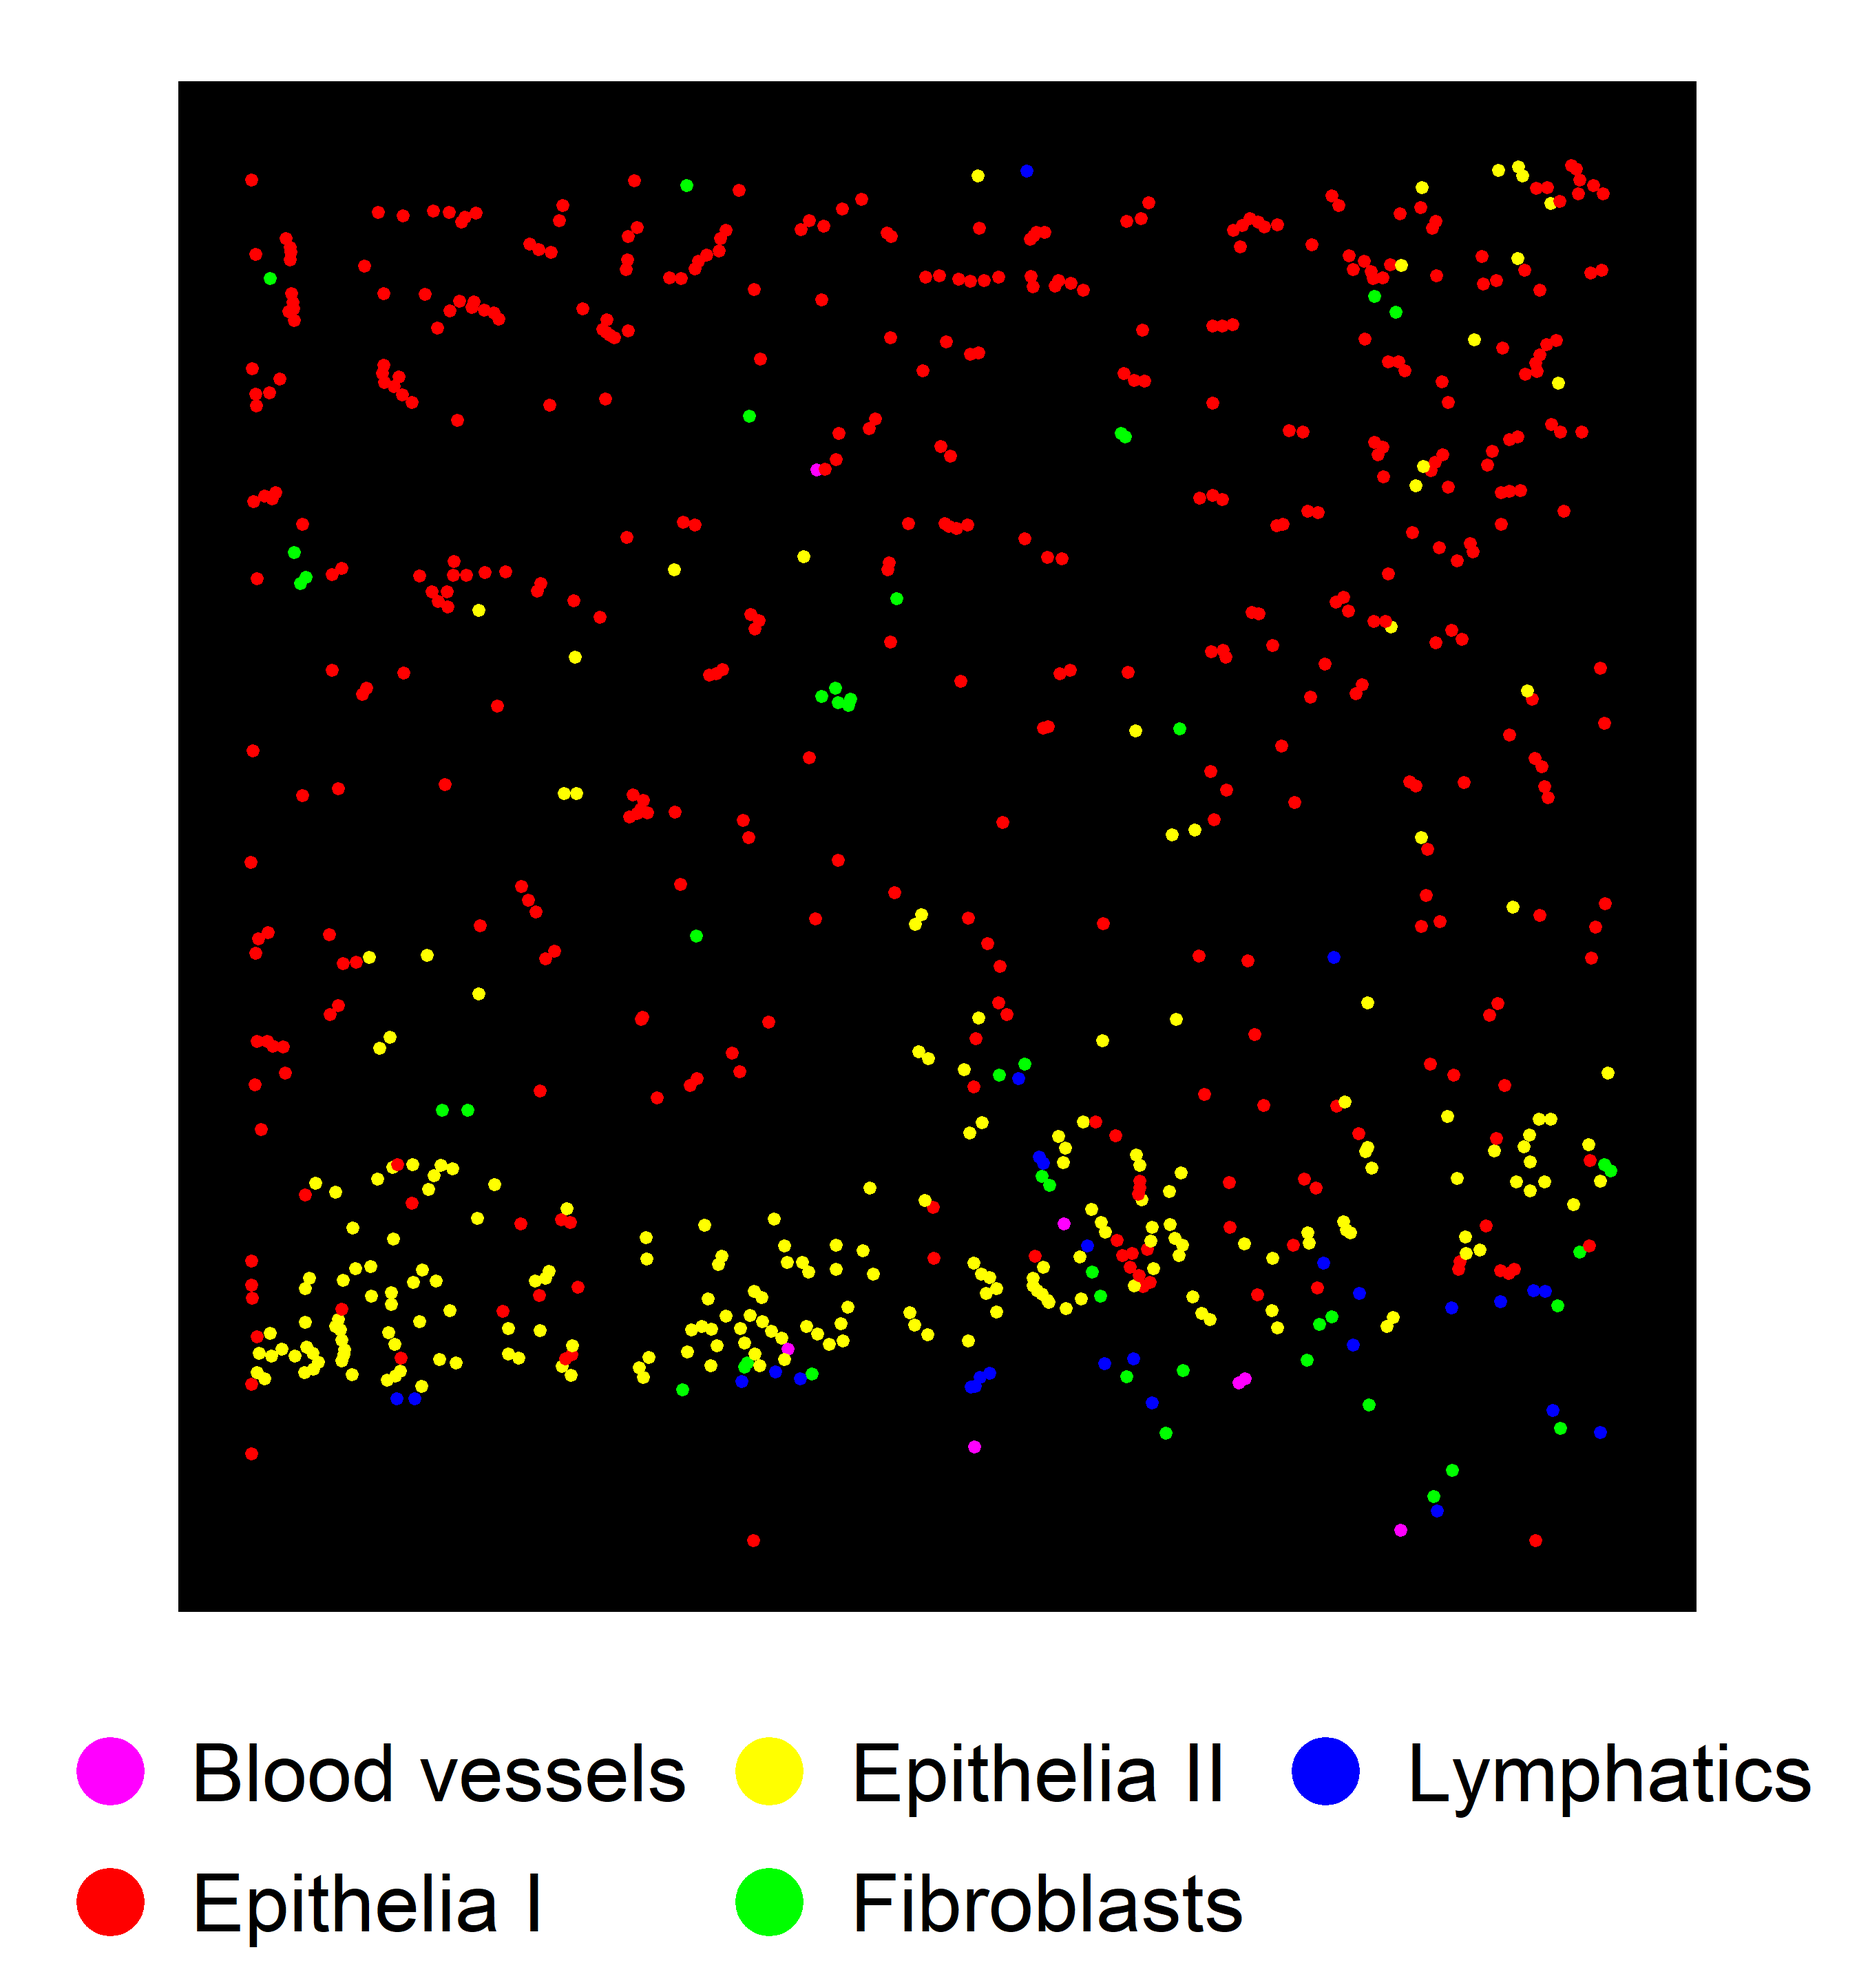
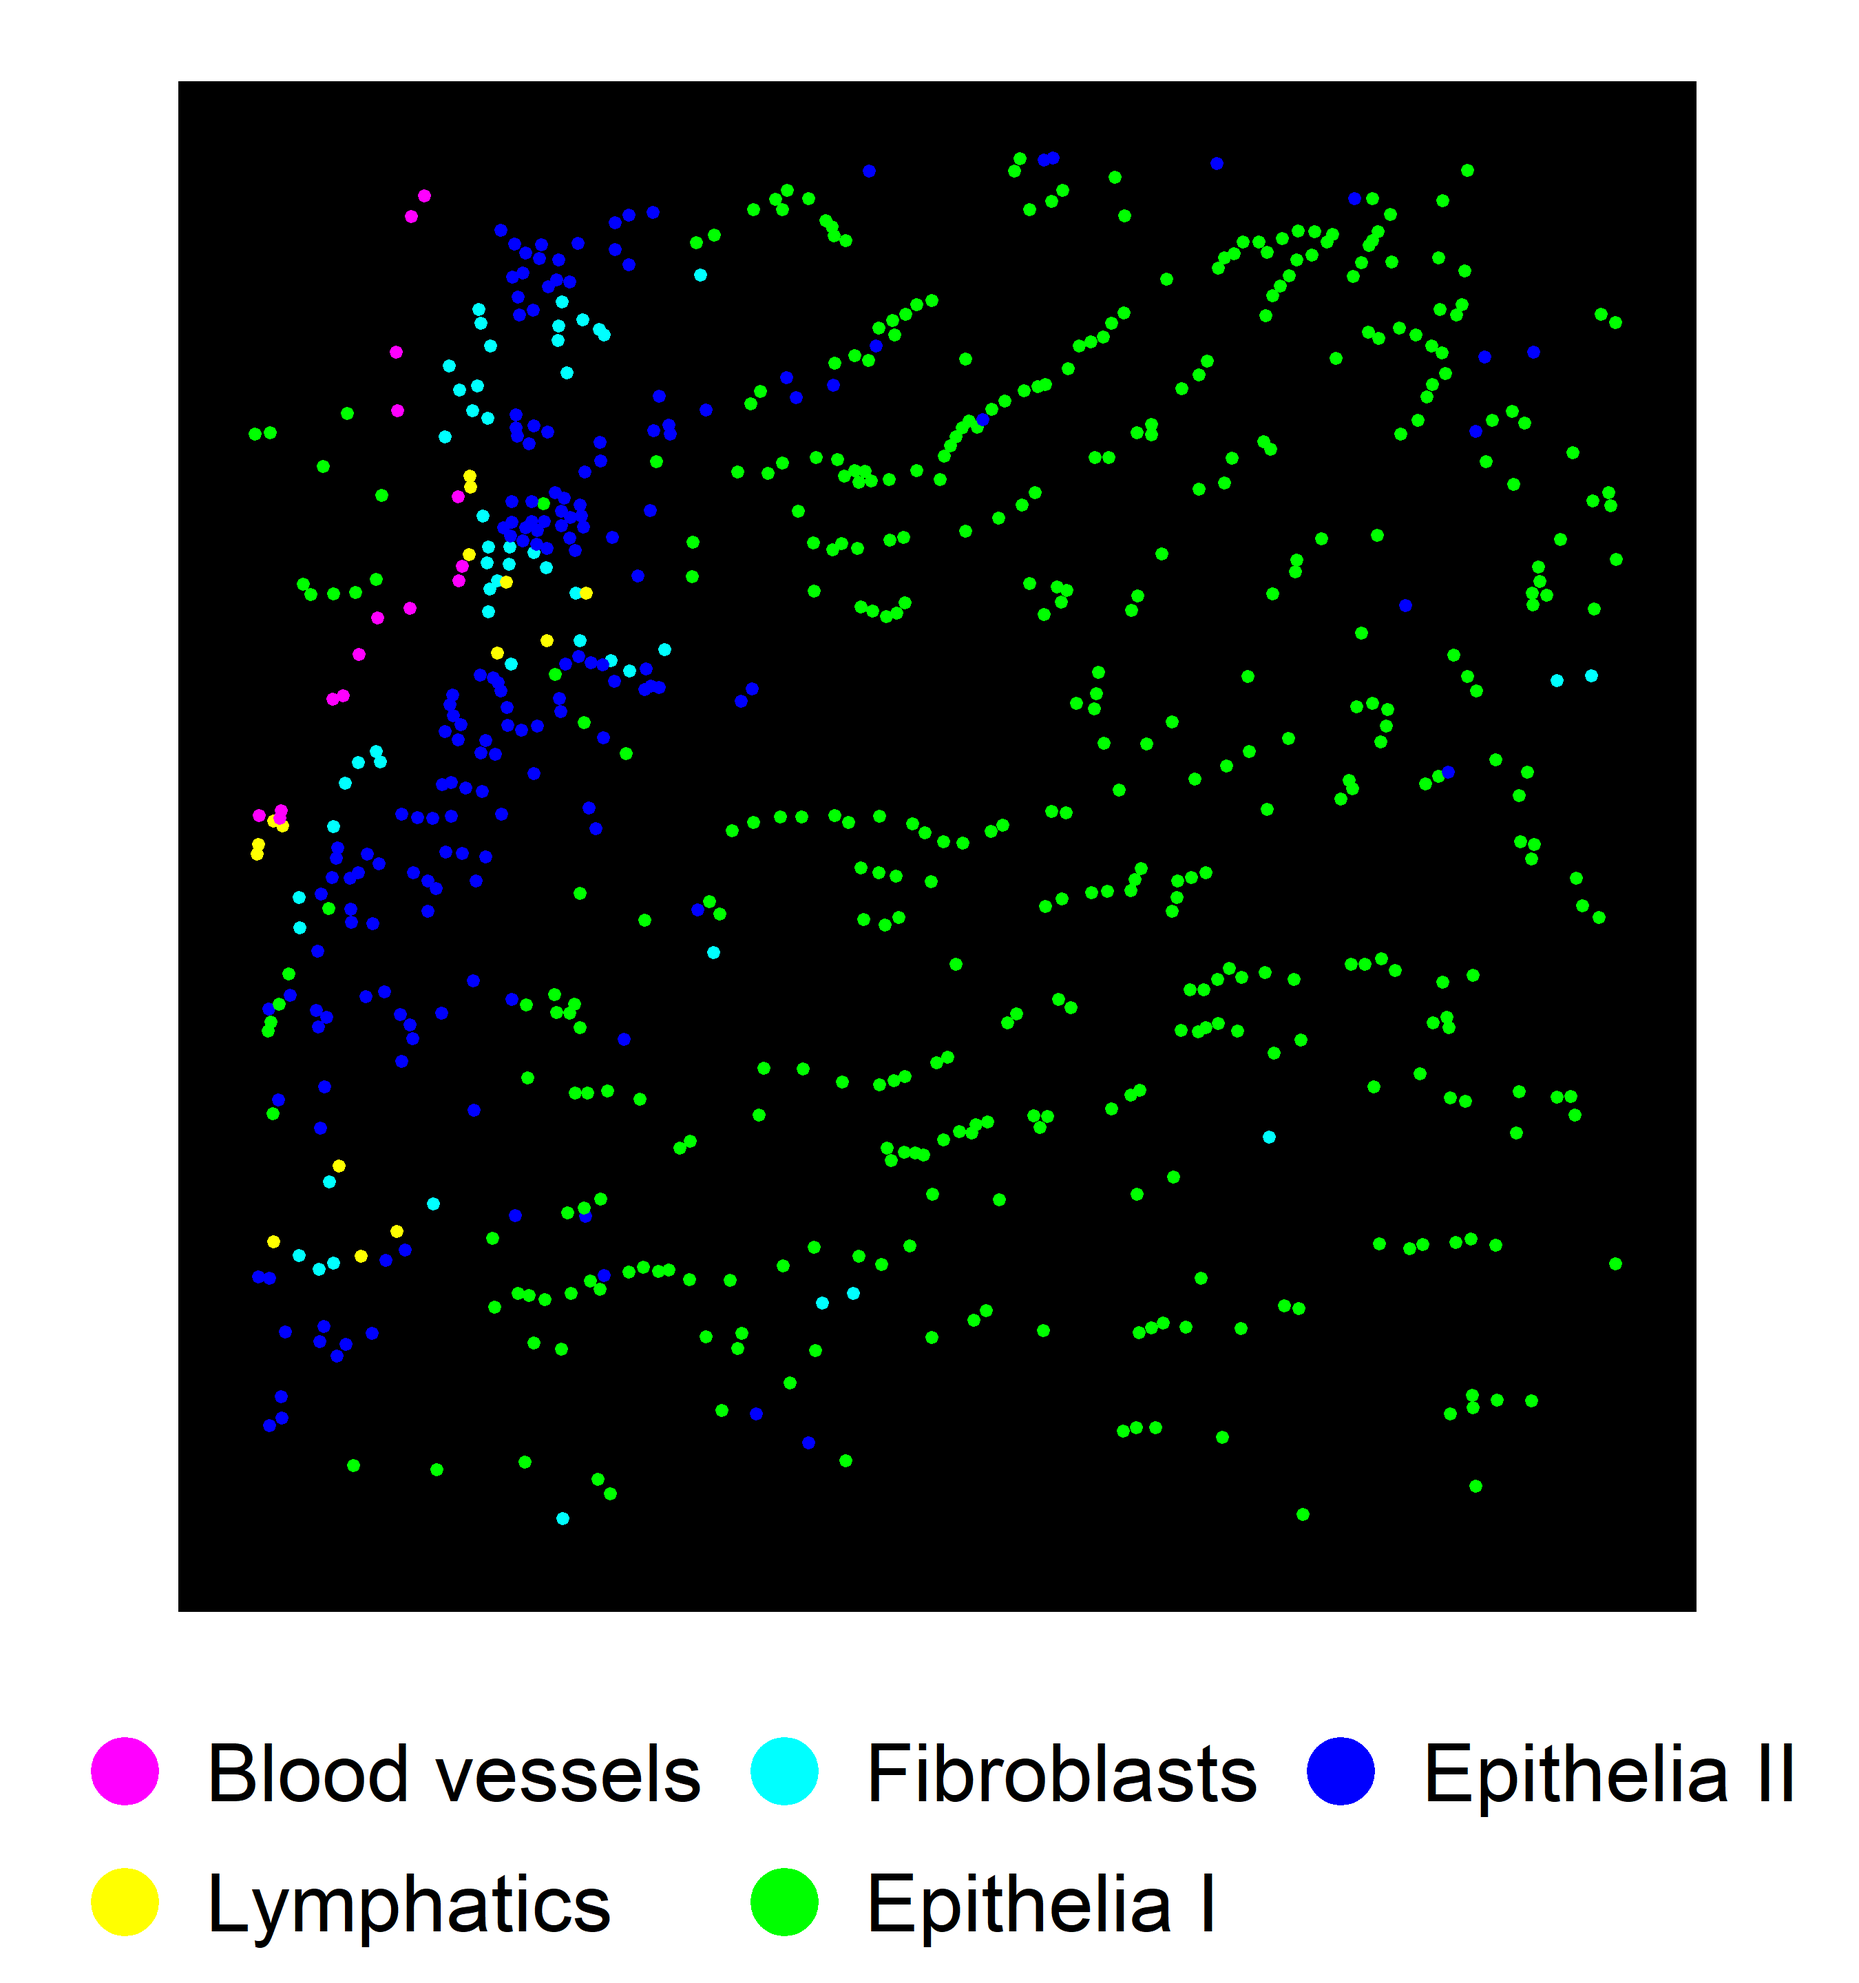
Changed overlay. Use FN instead of PDPN

diff --git a/2_visualizations_for_figures/Supp_Fig_4_cell_type_annotation_SI_AL2.md b/2_visualizations_for_figures/Supp_Fig_4_cell_type_annotation_SI_AL2.md
@@ -1,7 +1,7 @@
 ---
 title: "Supplmentary Figure 4: immune and non-immune cell types SI"
 author: "Sandy Kroh"
-date: "May 30, 2025"
+date: "June 02, 2025"
 output:
   html_document:
     toc: yes
@@ -256,8 +256,15 @@ fetched_data <- FetchData(SO.si,
 
 fetched_data <- as.data.frame(fetched_data)
 df_fov <- fetched_data %>%
-          filter(Dataset == "D3_FOV2_20210806") %>%
-  filter(AL3 == "Epithelia I"|AL3 == "Epithelia II"|AL3 == "Blood vessels"|AL3 == "Lymphatics"| AL3 == "Fibroblasts")
+          filter(Dataset == "CTRL_FOV2_20210706") %>%
+  filter(AL3 == "Epithelia I"|AL3 == "Epithelia II"|AL3 == "Blood vessels"|AL3 == "Lymphatics"| AL3 == "Fibroblasts") %>%
+  mutate(AL3 = factor(AL3, level = c(
+    "Blood vessels",
+    "Lymphatics",
+    "Fibroblasts",
+    "Epithelia I",
+    "Epithelia II"
+  )))
 
 
 plot_ann_2 <- ggplot()+ 
@@ -285,7 +292,7 @@ plot_ann_2 <- ggplot()+
                           labels=c("Immune cells",
                                                   "Vessels & stroma",
                                                   "Epithelia")) +
-    scale_color_manual(values = c("magenta", "red", "yellow", "green", "blue"))+ 
+    scale_color_manual(values = c("magenta", "yellow", "cyan", "green", "blue"))+ 
     ggplot2::guides(color=guide_legend(override.aes = list(size=5), ncol=3),
                   fill=guide_legend(ncol = 3,byrow=TRUE))+
   xlim(0, 2048)+
@@ -299,28 +306,32 @@ plot_ann_2
 
 ``` r
 img <- png::readPNG(
-    "D:/Sandy/Promotion/Dissertation/Figures/AL2/20210806_2_si_d3_CD31-r_EpCAM-g_PDPN-b_CD90-c_EMCN-m_LYVE1-y.png"
+    "D:/Sandy/Promotion/Dissertation/Figures/AL2/20210706_2_si_d3_CD31-r_EpCAM-g_FN-b_CD90-c_EMCN-m_LYVE1-y.png"
   )
 
+#20210806_2_si_d3_CD31-r_EpCAM-g_PDPN-b_CD90-c_EMCN-m_LYVE1-y
 
-my_colors <- c("blue", "cyan", "yellow", "magenta", "red", "green")
+my_colors <- c("magenta", "yellow", "cyan", "green", "blue", "red", "white")
 
 g <- grid::rasterGrob(img, interpolate=TRUE)
 
 
 
 df_fov <- fetched_data %>%
-  filter(Dataset == "D3_FOV2_20210806") %>%
-  filter(AL3 == "Epithelia I"|AL3 == "Epithelia II"|AL3 == "Blood vessels"|AL3 == "Lymphatics"| AL3 == "Fibroblasts"| AL3 == "B cells") %>%
+  filter(Dataset == "CTRL_FOV2_20210706") %>%
+  filter(AL3 == "Epithelia I"|AL3 == "Epithelia II"|AL3 == "Blood vessels"|AL3 == "Lymphatics"| AL3 == "Fibroblasts"| AL3 == "Plasma cells") %>%
   mutate(AL3 = recode(
     AL3, 
-    "B cells" = "PDPN",
     "Blood vessels" = "CD90",
     "Lymphatics" = "EMCN",
     "Fibroblasts" = "LYVE1",
     "Epithelia I" = "CD31",
-    "Epithelia II" = "EpCAM"
-  ))
+    "Epithelia II" = "EpCAM", 
+    "Plasma cells" = "FN"
+  ), 
+  AL3 = factor(AL3, c(
+    "EMCN", "LYVE1", "CD90", "EpCAM", "FN", "CD31"
+  )))
 
 plot_if_1 <- ggplot()+ 
   geom_point(data = df_fov, 
@@ -328,11 +339,11 @@ plot_if_1 <- ggplot()+
                        size = 1)+
   annotation_custom(g, xmin=-Inf, xmax=Inf, ymin=-Inf, ymax=Inf)+
   theme(legend.title=element_blank())+ # exclude legend title
-  scale_colour_discrete(name  ="MELC IF stainings",
-                          breaks=c("CD45", "CD31", 
-                                   "EpCAM"),
-                          labels=c("CD45", "CD31", 
-                                   "EpCAM")) +
+  # scale_colour_discrete(name  ="MELC IF stainings",
+  #                         breaks=c("CD45", "CD31", 
+  #                                  "EpCAM"),
+  #                         labels=c("CD45", "CD31", 
+  #                                  "EpCAM")) +
   scale_color_manual(values = my_colors)+ 
     theme(legend.position = "bottom", 
           plot.margin=margin(0.5,1,0,1,"cm"),
